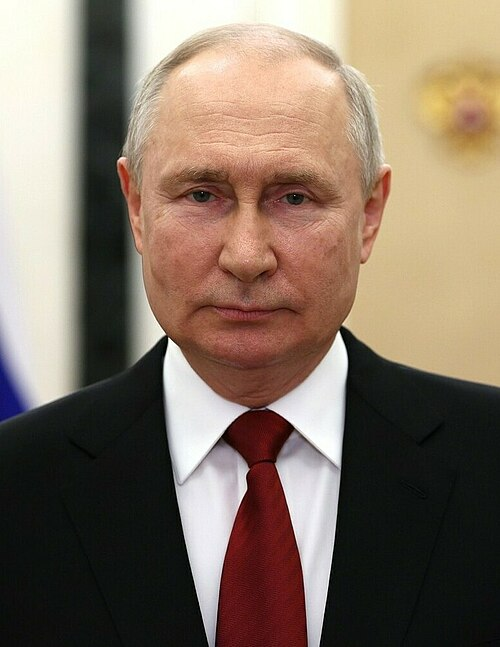
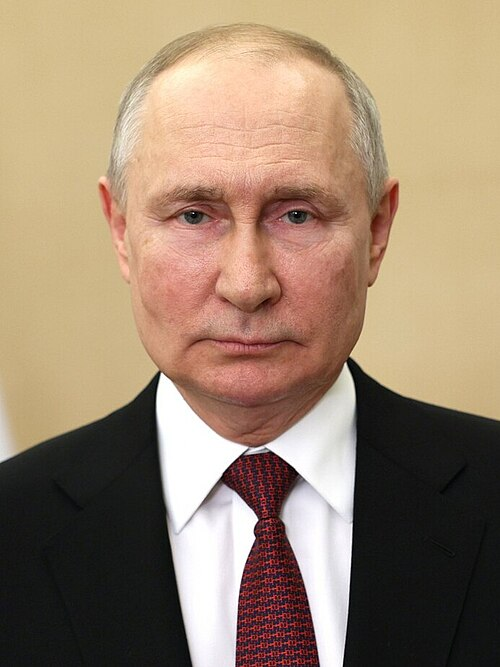
updated scraper

diff --git a/newInfo.js b/newInfo.js
@@ -1,4 +1,4 @@
-const lastChecked = "September 7, 2023";
+const lastChecked = "September 8, 2023";
 const newInfo = [
     {
         country: {"name":"Afghanistan","url":"https://en.wikipedia.org/wiki/Afghanistan"}, 
@@ -314,7 +314,7 @@ const newInfo = [
     }, 
     {
         country: {"name":"Brunei","url":"https://en.wikipedia.org/wiki/Brunei"}, 
-        leader: {"title":"Sultan","pos":"sultan","name":"Hassanal Bolkiah","url":"https://en.wikipedia.org/wiki/Hassanal_Bolkiah","imgUrl":"https://upload.wikimedia.org/wikipedia/commons/thumb/e/e1/Hassanal_Bolkiah_2013.jpg/500px-Hassanal_Bolkiah_2013.jpg"}, 
+        leader: {"title":"Sultan","pos":"sultan","name":"Hassanal Bolkiah","url":"https://en.wikipedia.org/wiki/Hassanal_Bolkiah","imgUrl":"https://upload.wikimedia.org/wikipedia/commons/thumb/a/a4/Hassanal_Bolkiah_at_the_Enthronement_of_Naruhito_%281%29.jpg/500px-Hassanal_Bolkiah_at_the_Enthronement_of_Naruhito_%281%29.jpg"}, 
         flag: {"url":"https://upload.wikimedia.org/wikipedia/commons/thumb/9/9c/Flag_of_Brunei.svg/500px-Flag_of_Brunei.svg.png"}, 
         symbol: {"url":"https://upload.wikimedia.org/wikipedia/commons/thumb/0/09/Emblem_of_Brunei.svg/500px-Emblem_of_Brunei.svg.png"}, 
         map: {"url":"https://upload.wikimedia.org/wikipedia/commons/thumb/9/9c/Brunei_%28orthographic_projection%29.svg/500px-Brunei_%28orthographic_projection%29.svg.png"}, 
@@ -346,7 +346,7 @@ const newInfo = [
         map: {"url":"https://upload.wikimedia.org/wikipedia/commons/thumb/8/86/Burkina_Faso_%28orthographic_projection%29.svg/500px-Burkina_Faso_%28orthographic_projection%29.svg.png"}, 
         capital: [{"name":"Ouagadougou","type":"capital"}], 
         language: {"list":["French"]}, 
-        demonym: {"name":"Burkinabè"}, 
+        demonym: {}, 
         currency: [{"full":"West African CFA franc"}], 
         tld: {"name":".bf"}, 
         largestCity: [{"name":"Ouagadougou","type":"largest city"}], 
@@ -1191,7 +1191,7 @@ const newInfo = [
         map: {"url":"https://upload.wikimedia.org/wikipedia/commons/thumb/7/7c/Kyrgyzstan_%28orthographic_projection%29.svg/500px-Kyrgyzstan_%28orthographic_projection%29.svg.png"}, 
         capital: [{"name":"Bishkek","type":"capital"}], 
         language: {"list":["Kyrgyz","Russian"]}, 
-        demonym: {"name":"Kyrgyz"}, 
+        demonym: {}, 
         currency: [{"demonym":"Kyrgyzstani","unit":"som"}], 
         tld: {"name":".kg"}, 
         largestCity: [{"name":"Bishkek","type":"largest city"}], 
@@ -1861,7 +1861,7 @@ const newInfo = [
     }, 
     {
         country: {"name":"Russia","url":"https://en.wikipedia.org/wiki/Russia"}, 
-        leader: {"title":"President","pos":"president","name":"Vladimir Putin","url":"https://en.wikipedia.org/wiki/Vladimir_Putin","imgUrl":"https://upload.wikimedia.org/wikipedia/commons/thumb/4/45/%D0%92%D0%BB%D0%B0%D0%B4%D0%B8%D0%BC%D0%B8%D1%80_%D0%9F%D1%83%D1%82%D0%B8%D0%BD_%2824-06-2023%29_%28cropped%29.jpg/500px-%D0%92%D0%BB%D0%B0%D0%B4%D0%B8%D0%BC%D0%B8%D1%80_%D0%9F%D1%83%D1%82%D0%B8%D0%BD_%2824-06-2023%29_%28cropped%29.jpg"}, 
+        leader: {"title":"President","pos":"president","name":"Vladimir Putin","url":"https://en.wikipedia.org/wiki/Vladimir_Putin","imgUrl":"https://upload.wikimedia.org/wikipedia/commons/thumb/5/51/%D0%92%D0%BB%D0%B0%D0%B4%D0%B8%D0%BC%D0%B8%D1%80_%D0%9F%D1%83%D1%82%D0%B8%D0%BD_%2818-06-2023%29_%28cropped%29.jpg/500px-%D0%92%D0%BB%D0%B0%D0%B4%D0%B8%D0%BC%D0%B8%D1%80_%D0%9F%D1%83%D1%82%D0%B8%D0%BD_%2818-06-2023%29_%28cropped%29.jpg"}, 
         flag: {"url":"https://upload.wikimedia.org/wikipedia/en/thumb/f/f3/Flag_of_Russia.svg/500px-Flag_of_Russia.svg.png"}, 
         symbol: {"url":"https://upload.wikimedia.org/wikipedia/commons/thumb/f/f2/Coat_of_Arms_of_the_Russian_Federation.svg/500px-Coat_of_Arms_of_the_Russian_Federation.svg.png"}, 
         map: {"url":"https://upload.wikimedia.org/wikipedia/commons/thumb/5/5e/Russian_Federation_%28orthographic_projection%29_-_All_Territorial_Disputes.svg/500px-Russian_Federation_%28orthographic_projection%29_-_All_Territorial_Disputes.svg.png"}, 

diff --git a/quiz.js b/quiz.js
@@ -1,6 +1,6 @@
 (() => {
     // replace lastChecked and currentInfo whenever currentInfo.js is confirmed
-    const lastChecked = "September 7, 2023";
+    const lastChecked = "September 8, 2023";
     const currentInfo = [
         {
             country: {"name":"Afghanistan","url":"https://en.wikipedia.org/wiki/Afghanistan"}, 
@@ -316,7 +316,7 @@
         }, 
         {
             country: {"name":"Brunei","url":"https://en.wikipedia.org/wiki/Brunei"}, 
-            leader: {"title":"Sultan","pos":"sultan","name":"Hassanal Bolkiah","url":"https://en.wikipedia.org/wiki/Hassanal_Bolkiah","imgUrl":"https://upload.wikimedia.org/wikipedia/commons/thumb/e/e1/Hassanal_Bolkiah_2013.jpg/500px-Hassanal_Bolkiah_2013.jpg"}, 
+            leader: {"title":"Sultan","pos":"sultan","name":"Hassanal Bolkiah","url":"https://en.wikipedia.org/wiki/Hassanal_Bolkiah","imgUrl":"https://upload.wikimedia.org/wikipedia/commons/thumb/a/a4/Hassanal_Bolkiah_at_the_Enthronement_of_Naruhito_%281%29.jpg/500px-Hassanal_Bolkiah_at_the_Enthronement_of_Naruhito_%281%29.jpg"}, 
             flag: {"url":"https://upload.wikimedia.org/wikipedia/commons/thumb/9/9c/Flag_of_Brunei.svg/500px-Flag_of_Brunei.svg.png"}, 
             symbol: {"url":"https://upload.wikimedia.org/wikipedia/commons/thumb/0/09/Emblem_of_Brunei.svg/500px-Emblem_of_Brunei.svg.png"}, 
             map: {"url":"https://upload.wikimedia.org/wikipedia/commons/thumb/9/9c/Brunei_%28orthographic_projection%29.svg/500px-Brunei_%28orthographic_projection%29.svg.png"}, 
@@ -1863,7 +1863,7 @@
         }, 
         {
             country: {"name":"Russia","url":"https://en.wikipedia.org/wiki/Russia"}, 
-            leader: {"title":"President","pos":"president","name":"Vladimir Putin","url":"https://en.wikipedia.org/wiki/Vladimir_Putin","imgUrl":"https://upload.wikimedia.org/wikipedia/commons/thumb/4/45/%D0%92%D0%BB%D0%B0%D0%B4%D0%B8%D0%BC%D0%B8%D1%80_%D0%9F%D1%83%D1%82%D0%B8%D0%BD_%2824-06-2023%29_%28cropped%29.jpg/500px-%D0%92%D0%BB%D0%B0%D0%B4%D0%B8%D0%BC%D0%B8%D1%80_%D0%9F%D1%83%D1%82%D0%B8%D0%BD_%2824-06-2023%29_%28cropped%29.jpg"}, 
+            leader: {"title":"President","pos":"president","name":"Vladimir Putin","url":"https://en.wikipedia.org/wiki/Vladimir_Putin","imgUrl":"https://upload.wikimedia.org/wikipedia/commons/thumb/5/51/%D0%92%D0%BB%D0%B0%D0%B4%D0%B8%D0%BC%D0%B8%D1%80_%D0%9F%D1%83%D1%82%D0%B8%D0%BD_%2818-06-2023%29_%28cropped%29.jpg/500px-%D0%92%D0%BB%D0%B0%D0%B4%D0%B8%D0%BC%D0%B8%D1%80_%D0%9F%D1%83%D1%82%D0%B8%D0%BD_%2818-06-2023%29_%28cropped%29.jpg"}, 
             flag: {"url":"https://upload.wikimedia.org/wikipedia/en/thumb/f/f3/Flag_of_Russia.svg/500px-Flag_of_Russia.svg.png"}, 
             symbol: {"url":"https://upload.wikimedia.org/wikipedia/commons/thumb/f/f2/Coat_of_Arms_of_the_Russian_Federation.svg/500px-Coat_of_Arms_of_the_Russian_Federation.svg.png"}, 
             map: {"url":"https://upload.wikimedia.org/wikipedia/commons/thumb/5/5e/Russian_Federation_%28orthographic_projection%29_-_All_Territorial_Disputes.svg/500px-Russian_Federation_%28orthographic_projection%29_-_All_Territorial_Disputes.svg.png"}, 

diff --git a/currentInfo.js b/currentInfo.js
@@ -1,4 +1,4 @@
-const lastChecked = "September 7, 2023";
+const lastChecked = "September 8, 2023";
 const currentInfo = [
     {
         country: {"name":"Afghanistan","url":"https://en.wikipedia.org/wiki/Afghanistan"}, 
@@ -314,7 +314,7 @@ const currentInfo = [
     }, 
     {
         country: {"name":"Brunei","url":"https://en.wikipedia.org/wiki/Brunei"}, 
-        leader: {"title":"Sultan","pos":"sultan","name":"Hassanal Bolkiah","url":"https://en.wikipedia.org/wiki/Hassanal_Bolkiah","imgUrl":"https://upload.wikimedia.org/wikipedia/commons/thumb/e/e1/Hassanal_Bolkiah_2013.jpg/500px-Hassanal_Bolkiah_2013.jpg"}, 
+        leader: {"title":"Sultan","pos":"sultan","name":"Hassanal Bolkiah","url":"https://en.wikipedia.org/wiki/Hassanal_Bolkiah","imgUrl":"https://upload.wikimedia.org/wikipedia/commons/thumb/a/a4/Hassanal_Bolkiah_at_the_Enthronement_of_Naruhito_%281%29.jpg/500px-Hassanal_Bolkiah_at_the_Enthronement_of_Naruhito_%281%29.jpg"}, 
         flag: {"url":"https://upload.wikimedia.org/wikipedia/commons/thumb/9/9c/Flag_of_Brunei.svg/500px-Flag_of_Brunei.svg.png"}, 
         symbol: {"url":"https://upload.wikimedia.org/wikipedia/commons/thumb/0/09/Emblem_of_Brunei.svg/500px-Emblem_of_Brunei.svg.png"}, 
         map: {"url":"https://upload.wikimedia.org/wikipedia/commons/thumb/9/9c/Brunei_%28orthographic_projection%29.svg/500px-Brunei_%28orthographic_projection%29.svg.png"}, 
@@ -1861,7 +1861,7 @@ const currentInfo = [
     }, 
     {
         country: {"name":"Russia","url":"https://en.wikipedia.org/wiki/Russia"}, 
-        leader: {"title":"President","pos":"president","name":"Vladimir Putin","url":"https://en.wikipedia.org/wiki/Vladimir_Putin","imgUrl":"https://upload.wikimedia.org/wikipedia/commons/thumb/4/45/%D0%92%D0%BB%D0%B0%D0%B4%D0%B8%D0%BC%D0%B8%D1%80_%D0%9F%D1%83%D1%82%D0%B8%D0%BD_%2824-06-2023%29_%28cropped%29.jpg/500px-%D0%92%D0%BB%D0%B0%D0%B4%D0%B8%D0%BC%D0%B8%D1%80_%D0%9F%D1%83%D1%82%D0%B8%D0%BD_%2824-06-2023%29_%28cropped%29.jpg"}, 
+        leader: {"title":"President","pos":"president","name":"Vladimir Putin","url":"https://en.wikipedia.org/wiki/Vladimir_Putin","imgUrl":"https://upload.wikimedia.org/wikipedia/commons/thumb/5/51/%D0%92%D0%BB%D0%B0%D0%B4%D0%B8%D0%BC%D0%B8%D1%80_%D0%9F%D1%83%D1%82%D0%B8%D0%BD_%2818-06-2023%29_%28cropped%29.jpg/500px-%D0%92%D0%BB%D0%B0%D0%B4%D0%B8%D0%BC%D0%B8%D1%80_%D0%9F%D1%83%D1%82%D0%B8%D0%BD_%2818-06-2023%29_%28cropped%29.jpg"}, 
         flag: {"url":"https://upload.wikimedia.org/wikipedia/en/thumb/f/f3/Flag_of_Russia.svg/500px-Flag_of_Russia.svg.png"}, 
         symbol: {"url":"https://upload.wikimedia.org/wikipedia/commons/thumb/f/f2/Coat_of_Arms_of_the_Russian_Federation.svg/500px-Coat_of_Arms_of_the_Russian_Federation.svg.png"}, 
         map: {"url":"https://upload.wikimedia.org/wikipedia/commons/thumb/5/5e/Russian_Federation_%28orthographic_projection%29_-_All_Territorial_Disputes.svg/500px-Russian_Federation_%28orthographic_projection%29_-_All_Territorial_Disputes.svg.png"}, 

diff --git a/test.js b/test.js
@@ -1,13 +1,13 @@
 async function getData(){
 
     try {
-        const response = await require('axios').get("https://en.wikipedia.org/wiki/Faure_Gnassingbé");
+        const response = await require('axios').get("https://en.wikipedia.org/wiki/Albert_II,_Prince_of_Monaco");
         const data = require('cheerio').load(response.data);
         const size= "500px";
         const countryNum = 30;
 
-        // flag_symbol_map(5, "svg", 6, "svg", 7, "svg");
-        leaderImg(3, "jpg");
+        // flag_symbol_map(5, "svg", 6, "png", 7, "svg");
+        leaderImg(4, "jpg");
 
 
         function pos_00(){

diff --git a/scraper.js b/scraper.js
@@ -744,7 +744,7 @@ async function getData(){
                         flag_symbol_map(4, "svg", 5, "svg", 6, "svg");
                         break;
                     case 79:    // Iraq
-                        flag_symbol_map(5, "svg", 6, "svg", 7, "svg");
+                        flag_symbol_map(4, "svg", 5, "svg", 6, "svg");
                         break;
                     case 80:    // Ireland
                         flag_symbol_map(4, "svg", 5, "svg", 6, "svg");
